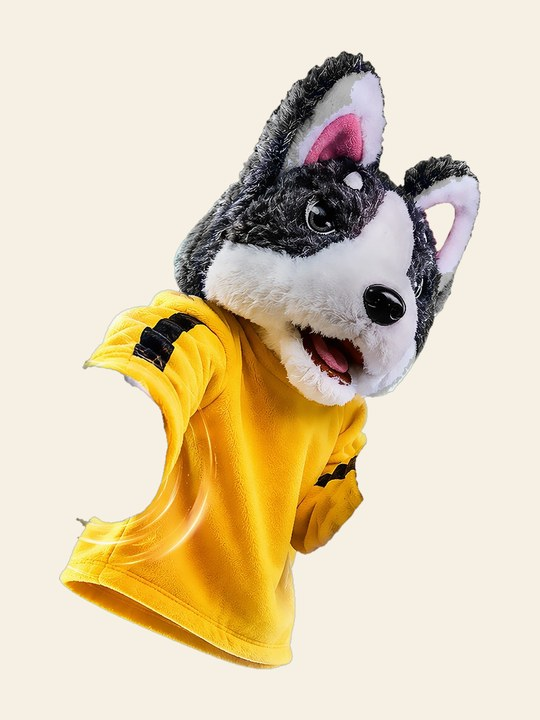
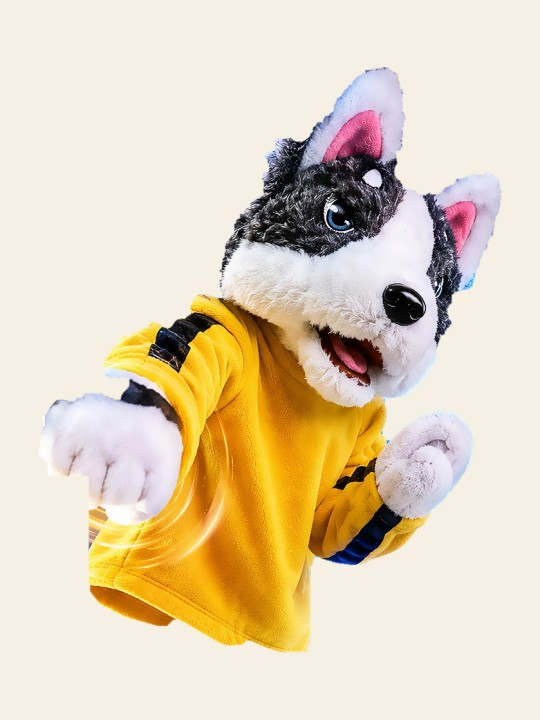
Husky: whole toy with both paws

diff --git a/husky/index.html b/husky/index.html
@@ -7,13 +7,13 @@
 <meta name="description" content="Qo‘lga kiyiladigan yumshoq husky: tugmani bossangiz musht chiqadi va boks ovozlari eshitiladi.">
 <meta property="og:title" content="Husky — boks qiladigan yumshoq o‘yinchoq">
 <meta property="og:description" content="Qo‘lga kiyiladigan yumshoq husky: tugmani bossangiz musht chiqadi va boks ovozlari eshitiladi.">
-<meta property="og:image" content="1.jpg">
+<meta property="og:image" content="1.jpg?v=2">
 <link rel="stylesheet" href="../style.css">
 </head>
 <body>
 <main class="card">
   <div class="gallery" id="g">
-    <img src="1.jpg" alt="Husky — boks qiladigan yumshoq o‘yinchoq" width="540" height="720">
+    <img src="1.jpg?v=2" alt="Husky — boks qiladigan yumshoq o‘yinchoq" width="540" height="720">
   </div>
 
   <h1>Husky — boks qiladigan yumshoq o‘yinchoq</h1>
